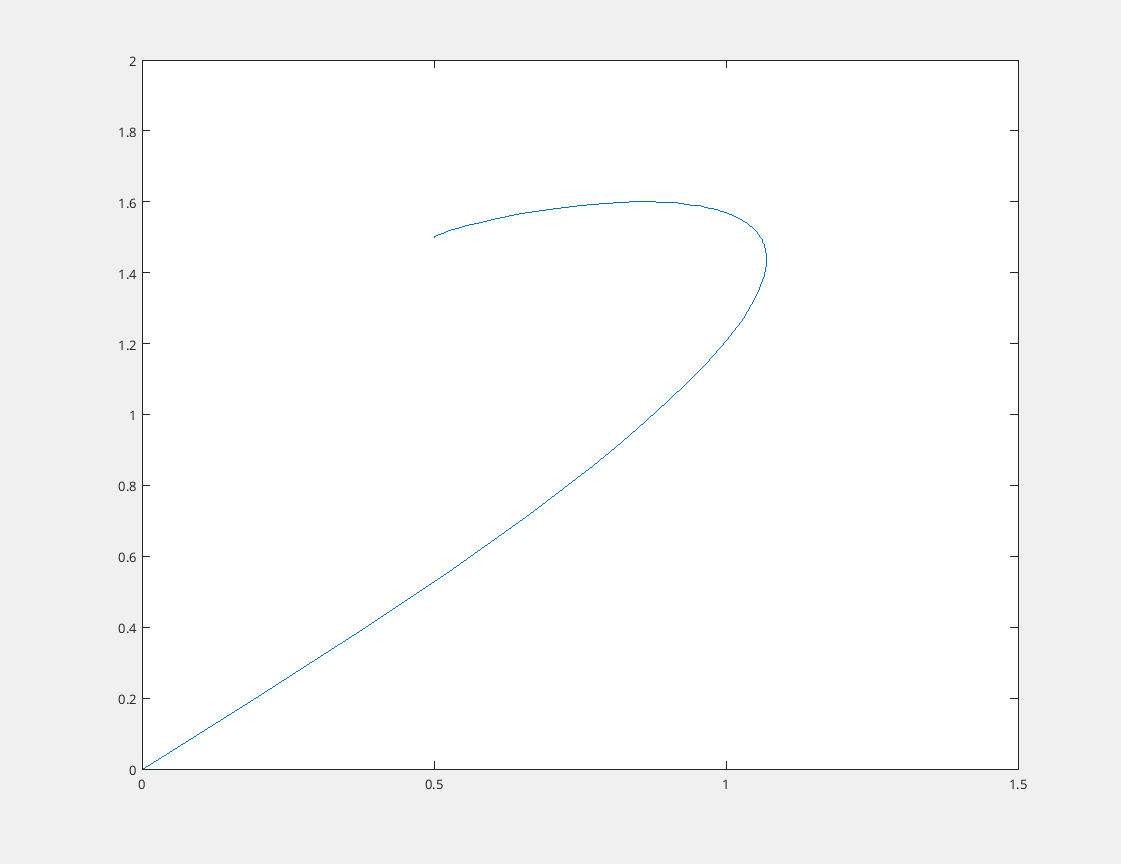
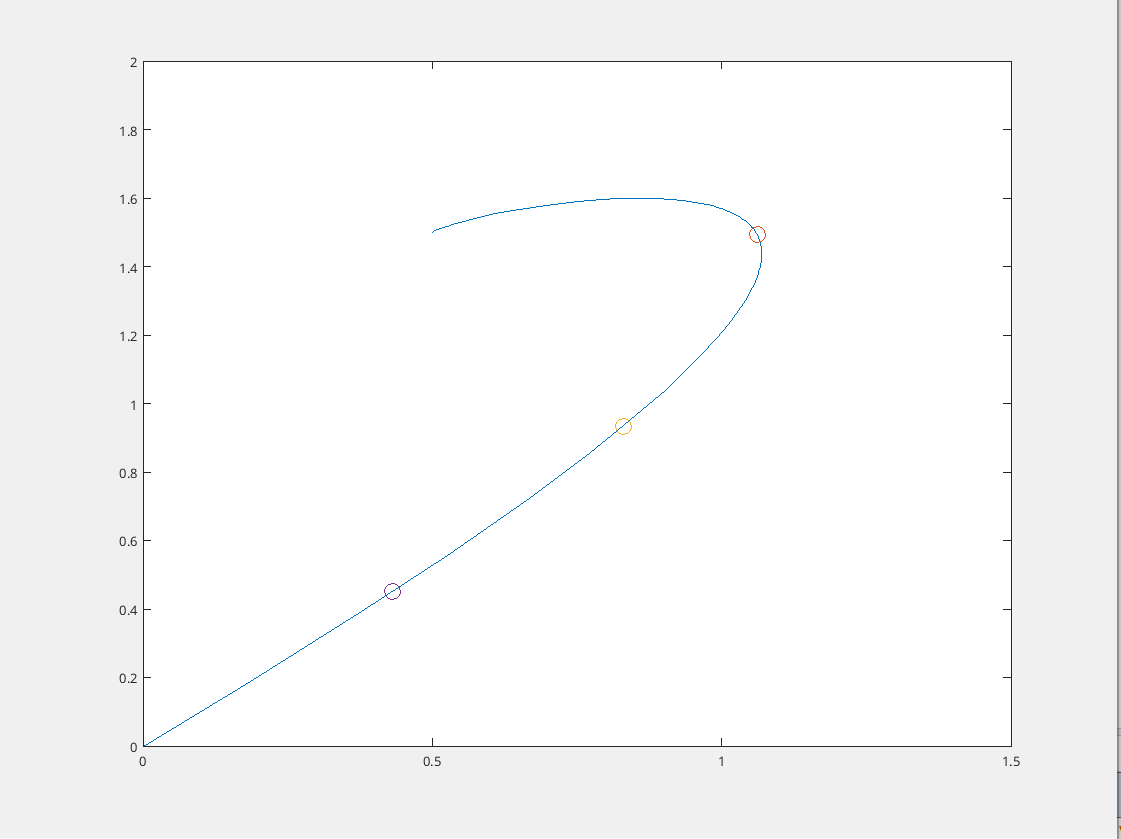
3a.png lagað

diff --git a/daemi6.m b/daemi6.m
@@ -13,3 +13,41 @@ fplot(x, y, [0 1]);
 axis([-3.5 2.5 -3 3]);
 
 hold on;
+
+ball = line('Color','r','Marker','o','MarkerSize',10,'LineWidth',2,'XData',[],'YData',[]);
+
+while t <= 1.01
+    xt = x(t);
+    yt = y(t);
+
+    set(ball, 'XData', xt, 'YData', yt); 
+    drawnow; 
+    pause(0.01);
+
+    t = t + 0.01;
+end
+
+figure;
+
+fplot(x, y, [0 1]);
+
+axis([-3.5 2.5 -3 3]);
+
+hold on;
+
+ball = line('Color','r','Marker','o','MarkerSize',10,'LineWidth',2,'XData',[],'YData',[]);
+
+s = 0.01;
+
+while s <= 1
+    t_s = t_star(dx,dy,s);
+    
+    xt = x(t_s);
+    yt = y(t_s);
+
+    set(ball, 'XData', xt, 'YData', yt); 
+    drawnow; 
+    pause(0.01);
+
+    s = s + 0.01;
+end
